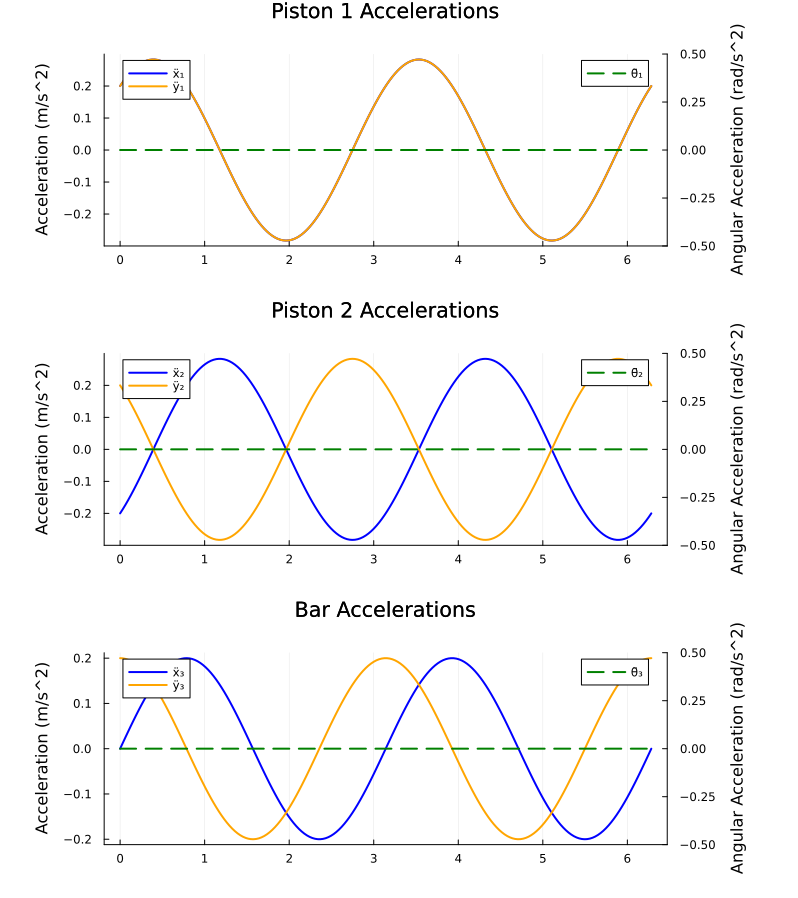
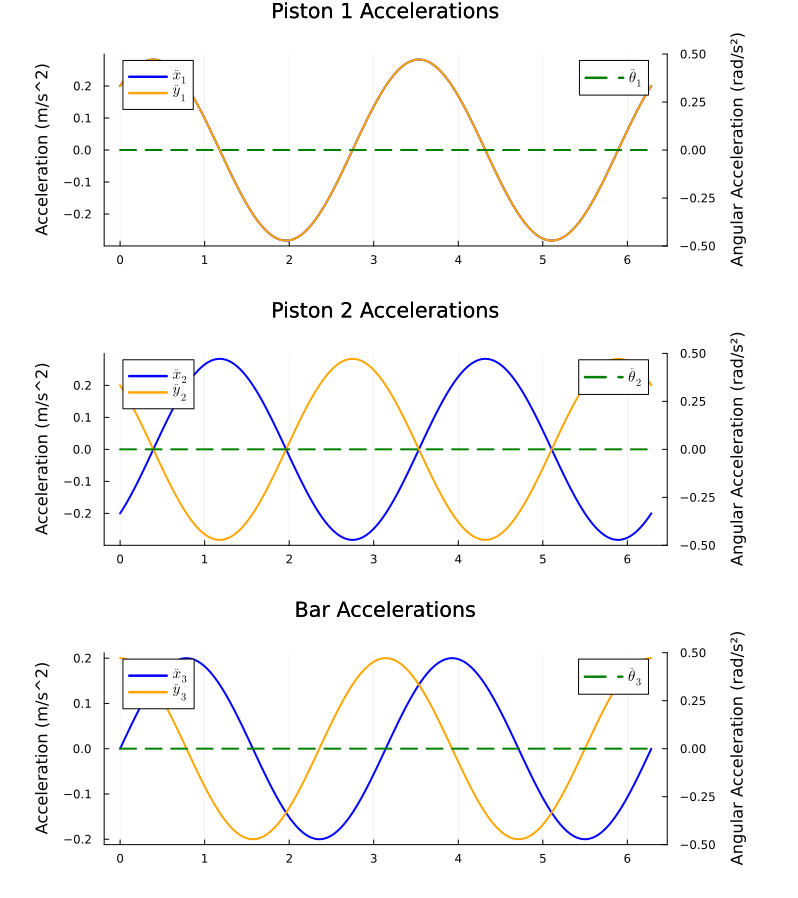
labels/final project

diff --git a/README.md b/README.md
@@ -649,6 +649,7 @@ The following packages are required:
 - `LinearAlgebra`
 - `Plots`
 - `Measures`
+- `LaTeXStrings`
 
 ## Project Structure
 ```
